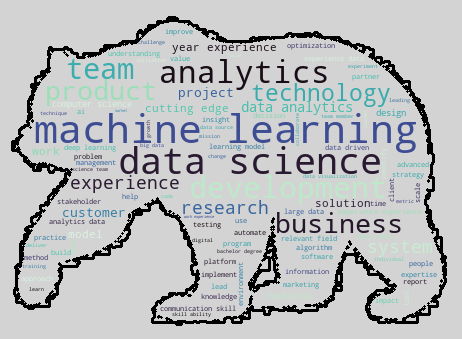
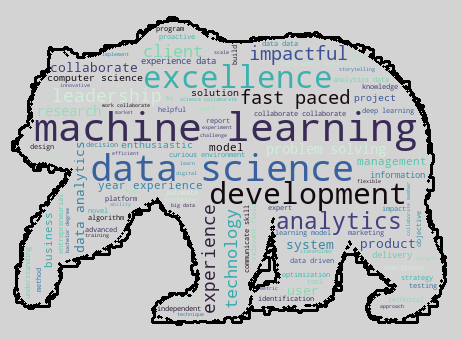
created functionality for finding stopword pollution

Changed region(s): [[0.0303, 0.059, 0.9697, 0.944], [0.8182, 0.8555, 0.9091, 0.9145]]

diff --git a/nlp_main.py b/nlp_main.py
@@ -230,6 +230,9 @@ def clean_terms_for_nlp(series_of_interest):
     -------
     terms_for_nlp : list
         A list containing all terms (fully cleaned and processed) extracted from the series_of_interest Series.
+    
+    additional_stopwords : list
+        A list to capture all domain-specific stopwords and 'stop-lemma'
 
     '''
     
@@ -334,7 +337,7 @@ def clean_terms_for_nlp(series_of_interest):
                                             'effort', 'define', 'conduct', 'potential', 'used', 'patient', 'inc',
                                             'find', 'documentation', 'finance', 'similar', 'first', 'specific', 'share',
                                             'deployment', 'includes', 'require', 'focused', 'act', 'implementing', 'desired',
-                                            'organizational', 'person', 'many', 'brand', 'search', 'content', 'address',
+                                            'organizational', 'person', 'many', 'brand', 'content', 'address',
                                             'directly', 'driving', 'execution', 'colleague', 'general', 'online', 'addition',
                                             'asset', 'commercial', 'meaningful', 'purpose', 'ideal', 'today', 'investment',
                                             'monitoring', 'provider', 'interest', 'event', 'seek', 'assessment', 'necessary',
@@ -2122,15 +2125,15 @@ def clean_terms_for_nlp(series_of_interest):
     dict(sorted(term_fixes.items(), key=lambda item: item[1]))
         
     # correct misspellings, erroneous concatenations, term ambiguities, etc.; collapse synonyms into single terms
-    print('   Correcting misspellings, eroneous concatenations, ambiguities, etc...')
+    print('   Correcting misspellings, eroneous concatenations, ambiguities, etc...\n')
     df_term_fixes = pd.DataFrame(terms_for_nlp, columns=['terms'])
     df_term_fixes['terms'].replace(dict(zip(list(term_fixes.keys()), list(term_fixes.values()))), regex=False, inplace=True)
     terms_for_nlp = list(df_term_fixes['terms'])
         
-    return terms_for_nlp
+    return terms_for_nlp, additional_stopwords
 
 
-def nlp_skill_lists():
+def nlp_skill_lists(additional_stopwords):
     # probably best to keep this a separate function given how much interaction I'll have with these lists
     # once complete with the initial cleaning, move this function down to be with the nlp functions
     
@@ -2992,6 +2995,15 @@ def nlp_skill_lists():
                            'workstreams'] 
     
     ds_skills_combined = ds_cred_terms + ds_tech_skill_terms + ds_soft_skill_terms + ds_prof_skill_terms
+
+    ####### !!!!!!!! START HERE NEXT  #########
+    # confirm exclusivity of each list with the additional_stopwords list in the clean_terms_for_nlp function
+    print('***** Stopword and Skill List Testing ***** \n')
+    print(f'Test for Stopword pollution in skill lists: {not set(ds_skills_combined).isdisjoint(additional_stopwords)}\n')
+    stopword_pollutants = list(set(additional_stopwords).intersection(ds_skills_combined))
+    print(f'Stopword pollutants: {stopword_pollutants}\n')
+        
+    # measure overlap among three key lists
     
     return ds_cred_terms, ds_tech_skill_terms, ds_soft_skill_terms, ds_prof_skill_terms, ds_skills_combined
 
@@ -3227,10 +3239,10 @@ def main_program(csv_path):
     series_of_interest = df['job_description']
     
     # execute all NLP data conditioning (e.g., lowercasing, lemmatization, etc.)
-    terms_for_nlp = clean_terms_for_nlp(series_of_interest)
+    terms_for_nlp, additional_stopwords = clean_terms_for_nlp(series_of_interest)
     
     # create lists for key terms related to credentialing and key skill sets, and a combined list for all terms of interest
-    ds_cred_terms, ds_tech_skill_terms, ds_soft_skill_terms, ds_prof_skill_terms, ds_skills_combined = nlp_skill_lists()
+    ds_cred_terms, ds_tech_skill_terms, ds_soft_skill_terms, ds_prof_skill_terms, ds_skills_combined = nlp_skill_lists(additional_stopwords)
     
     # count n_grams 
     n_gram_count = 1
@@ -3256,7 +3268,7 @@ print(f'\nTotal Processing Time: {(time.time() - start_time) / 60:.2f} minutes')
 # clean up intermediate dataframes and variables
 del start_time, end_time
 
-####### !!!!!!!! START HERE NEXT  #########
+
 
 
 #######  ARCHIVE ######
